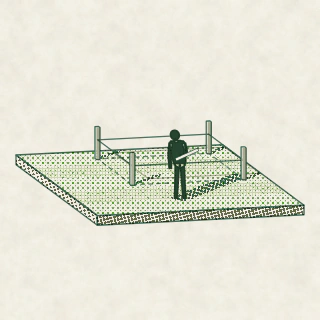
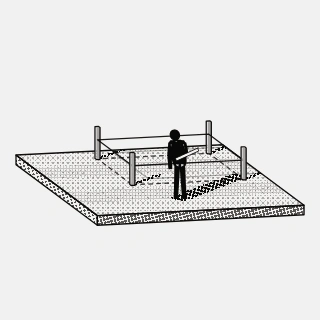
feat(brand): print the app's empty-state vignettes in the brand neutrals
The three vignettes (six files) were green line art on cream with a red
ribbon, the retired brand. The riso engine now takes a per-work `look`
(ink hex per drum, paper colour, flat sheet) and the vignetten work prints
in ink, ink-muted and two let-down tints of it on the image ground
#f2f1f0. Drawings, screens and registration are unchanged; the manifest
hashes follow the new bytes, and the alt text no longer says "red".

Claude-Session: https://claude.ai/code/session_01XeEkejirNo3AjR8CYLB82a

Changed region(s): [[0.0312, 0.375, 0.9688, 0.7188]]

diff --git a/packages/brand/art/riso/vignetten/index.html b/packages/brand/art/riso/vignetten/index.html
@@ -30,7 +30,8 @@
    than a dot ramp.
 
    Same series as Tafeln: the one camera, the series sun (dawn for the plot),
-   paper, the five drums, Kelly only for something alive, red once at most.
+   the five drums, Kelly only for something alive, red once at most. They print
+   in the brand neutrals, not the series' colours: see `look` at Riso.run.
    ───────────────────────────────────────────────────────────────────────── */
 
 /* Line weights in 1080-unit space for the 320 slot: 1.84, 1.42 and 1.27 px at 1x. */
@@ -321,8 +322,25 @@ const PLANSCHRANK = (() => {
    with empty alt; the alt here is for any other use.
    ═════════════════════════════════════════════════════════════════════════ */
 
+/* The brand neutrals (design system 3.0; no hue, D26). The vignettes sit in the
+   product app, so they print in ink on the light grey of an image ground
+   (`surface-sunken`) instead of the series' greens on cream, on a flat sheet.
+   Every drum keeps its screen, angle and registration, so the drawing is
+   unchanged; only the colour each drum prints in is. Key line and red (the
+   plate's one accent) print in ink, Moss in ink-muted, and the two tint drums
+   in ink-muted let down onto the ground (Kelly 40 %, Mist 20 %), the way a
+   riso tint is a lighter drum, so a lawn or a haze stays a quiet field. */
+const mixMuted = (share) => '#' + [[0xf2, 0x5e], [0xf1, 0x5b], [0xf0, 0x57]]
+  .map(([ground, muted]) => Math.round(ground + (muted - ground) * share).toString(16).padStart(2, '0')).join('');
+const NEUTRAL = { ink: '#0f0e0d', inkMuted: '#5e5b57', ground: '#f2f1f0', kelly: mixMuted(0.4), mist: mixMuted(0.2) };
+
 Riso.run({
   work: 'vignetten',
+  look: {
+    paper: NEUTRAL.ground,
+    mottle: false,
+    ink: { hunter: NEUTRAL.ink, red: NEUTRAL.ink, moss: NEUTRAL.inkMuted, kelly: NEUTRAL.kelly, mist: NEUTRAL.mist },
+  },
   plates: [
     { name: 'bauplatz',    art: BAUPLATZ,    composes: ['empty'] },
     { name: 'abstecken',   art: ABSTECKEN,   composes: ['empty'] },
@@ -330,8 +348,8 @@ Riso.run({
   ],
   jobs: [
     { plate: 'bauplatz', format: 'empty',
-      alt: { de: 'Ein leerer Bauplatz auf einem Modellbrett im Morgenlicht: ein abgesteckter Grundriss, eine einzelne Stütze mit Bewehrungseisen und ein Vermessungspflock mit rotem Band.',
-             en: 'An empty building plot on a model board at dawn: a pegged-out plot, a single column with rebar sticking out of its head, and a survey stake with a red ribbon.' } },
+      alt: { de: 'Ein leerer Bauplatz auf einem Modellbrett im Morgenlicht: ein abgesteckter Grundriss, eine einzelne Stütze mit Bewehrungseisen und ein Vermessungspflock mit einem Band.',
+             en: 'An empty building plot on a model board at dawn: a pegged-out plot, a single column with rebar sticking out of its head, and a survey stake with a ribbon.' } },
     { plate: 'abstecken', format: 'empty',
       alt: { de: 'Auf einem Rasenbrett ist ein Grundstück mit vier Pflöcken und einer Schnur abgesteckt; eine Figur mit einer Planrolle steht an der Ecke.',
              en: 'A plot staked out with four stakes and a string on a lawn board; a figure holding a rolled drawing stands at the corner.' } },

diff --git a/packages/brand/art/riso/lib/engine.js b/packages/brand/art/riso/lib/engine.js
@@ -34,6 +34,13 @@ const SEP = QS.get('sep');
 const DEBUG = QS.get('debug') || '';
 const NOPAPER = QS.get('paper') === '0';
 
+/* A work's own look, from Riso.run({ look }): `ink` maps an ink name to the hex it
+   prints in, `paper` is the sheet's colour, `mottle: false` leaves the sheet flat
+   (no fibres, flecks or mottling). Unset, a work prints in the series look of
+   piloti.js. The vignetten work uses it to print in the brand neutrals. */
+let LOOK = { ink: {}, paper: null, mottle: true };
+const inkHex = (ink) => LOOK.ink[ink] || INK[ink];
+
 /* Every format is drawn in a 1080-unit wide space. H is the format's height in
    units. OUT/OUTH/K/PITCH are set per job before a bake. */
 const W = 1080;
@@ -136,7 +143,8 @@ function screenPlate(tone, line, name) {
 function bakePaper() {
   const c = cv(OUT, OUTH), x = c.getContext('2d');
   x.setTransform(K, 0, 0, K, 0, 0);
-  x.fillStyle = PAPER; x.fillRect(0, 0, W, H);
+  x.fillStyle = LOOK.paper || PAPER; x.fillRect(0, 0, W, H);
+  if (LOOK.mottle === false) return c;
   const r = rngFor('paper');
   for (const [res, maxA] of [[30, 0.09], [72, 0.065], [165, 0.045]]) {
     const rh = Math.max(2, Math.round(res * H / W));
@@ -482,7 +490,7 @@ const Riso = (() => {
       const tin = cv(OUT, OUTH), tx = tin.getContext('2d');
       tx.drawImage(dots, 0, 0);
       tx.globalCompositeOperation = 'source-in';
-      tx.fillStyle = INK[ink];
+      tx.fillStyle = inkHex(ink);
       tx.fillRect(0, 0, OUT, OUTH);
       const [rx, ry] = REG[ink];
       o.save();
@@ -504,6 +512,7 @@ const Riso = (() => {
 
   function run(spec) {
     let jobs, arts;
+    if (spec.look) LOOK = { ...LOOK, ...spec.look, ink: { ...spec.look.ink } };
     try { ({ jobs, arts } = expand(spec)); } catch (e) { refuse(e); return; }
     const canvas = document.getElementById('c'), ctx = canvas.getContext('2d');
     const baked = new Map();

diff --git a/apps/workspace/ui/components/brand/riso-print.tsx b/apps/workspace/ui/components/brand/riso-print.tsx
@@ -4,10 +4,11 @@ import { artImage, type ArtId } from '@/lib/art'
 import { cn } from '@/lib/utils'
 
 /**
- * A Piloti riso print (the picture language of the public site), by art id.
+ * A riso print (a halftone line drawing), by art id.
  *
- * The print is a halftone screen on warm paper `#F4F2E8`, exported at the
- * exact pixel size of its slot. Two rules follow from that:
+ * The print is a halftone screen in ink and ink-muted on the light image
+ * ground `#f2f1f0` (the brand neutrals, no hue), exported at the exact pixel
+ * size of its slot. Two rules follow from that:
  *
  * - **Native size only.** It is shown at its CSS size from `sm` up and at
  *   exactly half below it (a phone column is narrower than 320 px), never at a
@@ -15,8 +16,8 @@ import { cn } from '@/lib/utils'
  *   into moiré. So no `next/image` (it re-encodes and resizes), no
  *   `max-width: 100%`, no `object-fit`.
  * - **Paper, not ink.** The print is a sheet, so it has the sheet's rounded
- *   corners. In light mode its paper sits on the app's warm paper plane and
- *   needs nothing more. In dark mode it is not inverted or tinted: it is a
+ *   corners. In light mode its grey ground sits on the app's surface as an
+ *   image ground does and needs nothing more. In dark mode it is not inverted or tinted: it is a
  *   printed sheet lying on the charcoal, so it takes the raised-plane shadow
  *   and is dimmed a step so a bright square does not glare out of a dark page.
  *

diff --git a/packages/brand/art/riso/vignetten/PRINT.md b/packages/brand/art/riso/vignetten/PRINT.md
@@ -42,6 +42,33 @@ What this work does differently, and why:
 - **No numeral** (`empty` sets `numeral: false`): a vignette is not a plate of
   the series, it is a spot in a product.
 
+## Printed in the brand neutrals (2026-10-29)
+
+The product app follows the design system 3.0, which has no brand colour: ink
+`#0f0e0d`, warm white `#fafaf9`, one light grey `#f2f1f0` and ink-muted `#5e5b57`
+for secondary marks. Green line art and a red ribbon were the retired brand.
+So this work passes its own `look` to `Riso.run` (`lib/engine.js`) and leaves
+`lib/piloti.js` alone: each drum keeps its screen, angle, registration and every
+drawn coverage, and only the colour it prints in changes.
+
+| Drum | Series | Here |
+|---|---|---|
+| Hunter (key line) | `#407060` | ink `#0f0e0d` |
+| Bright Red (the one accent) | `#F15060` | ink `#0f0e0d`: the ribbon still reads as the stake's mark by its shape |
+| Moss (shade) | `#68724D` | ink-muted `#5e5b57` |
+| Kelly (lawn, tufts) | `#67B346` | ink-muted let down 40 % onto the ground, `#b7b5b3` |
+| Mist (haze, glancing faces) | `#D5E4C0` | ink-muted let down 20 % onto the ground, `#d4d3d1` |
+| Paper | `#F4F2E8`, mottled | `#f2f1f0` (`surface-sunken`, the image ground), flat |
+
+Kelly and Mist printed in full ink-muted turned the lawn and the chest's top
+into heavy dot fields (first proof, rejected); a riso tint is a lighter drum,
+so the two tint drums print a lighter grey of the same ink. No hue remains.
+
+Exported with Chromium: the container this was made in cannot launch Firefox
+(see the kit README), so the pixels differ from a Firefox export by
+antialiasing; `verify.mjs` in both engines is still the check after a drawing
+change.
+
 ## Plates
 
 ### I. Bauplatz (building plot)
@@ -122,6 +149,8 @@ the product app and its manifest is `apps/workspace/bff/art/art.json`.
 - III: 1:1 crops at 640 of the pulled drawer and the drawer fronts, before and
   after the south faces moved from Moss to Mist.
 - `verify.mjs --work vignetten`: all six jobs repeat in Chromium and Firefox.
+- Neutral look (2026-10-29): all three at 320 and 640, full frame, in Chromium;
+  first proof with every shade drum in ink-muted rejected as too heavy.
 
 ## Remaining weaknesses
 
